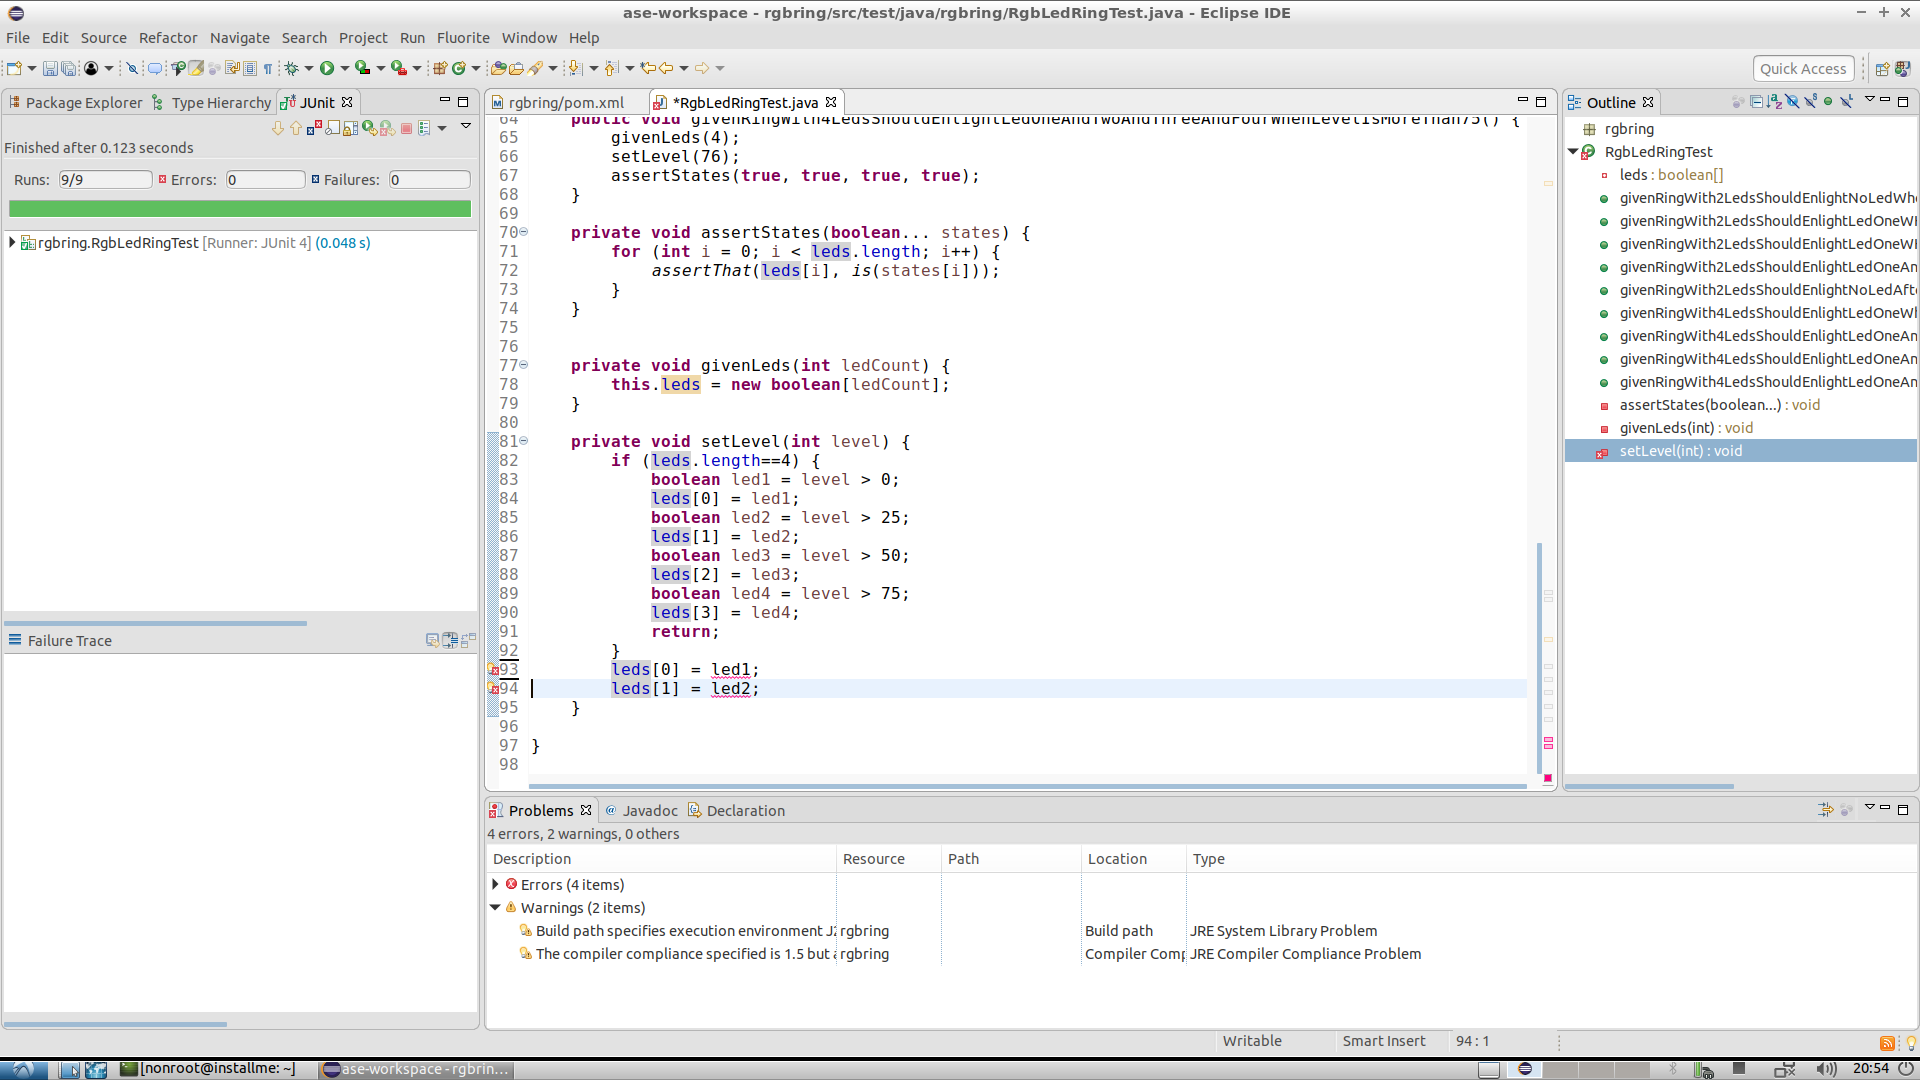
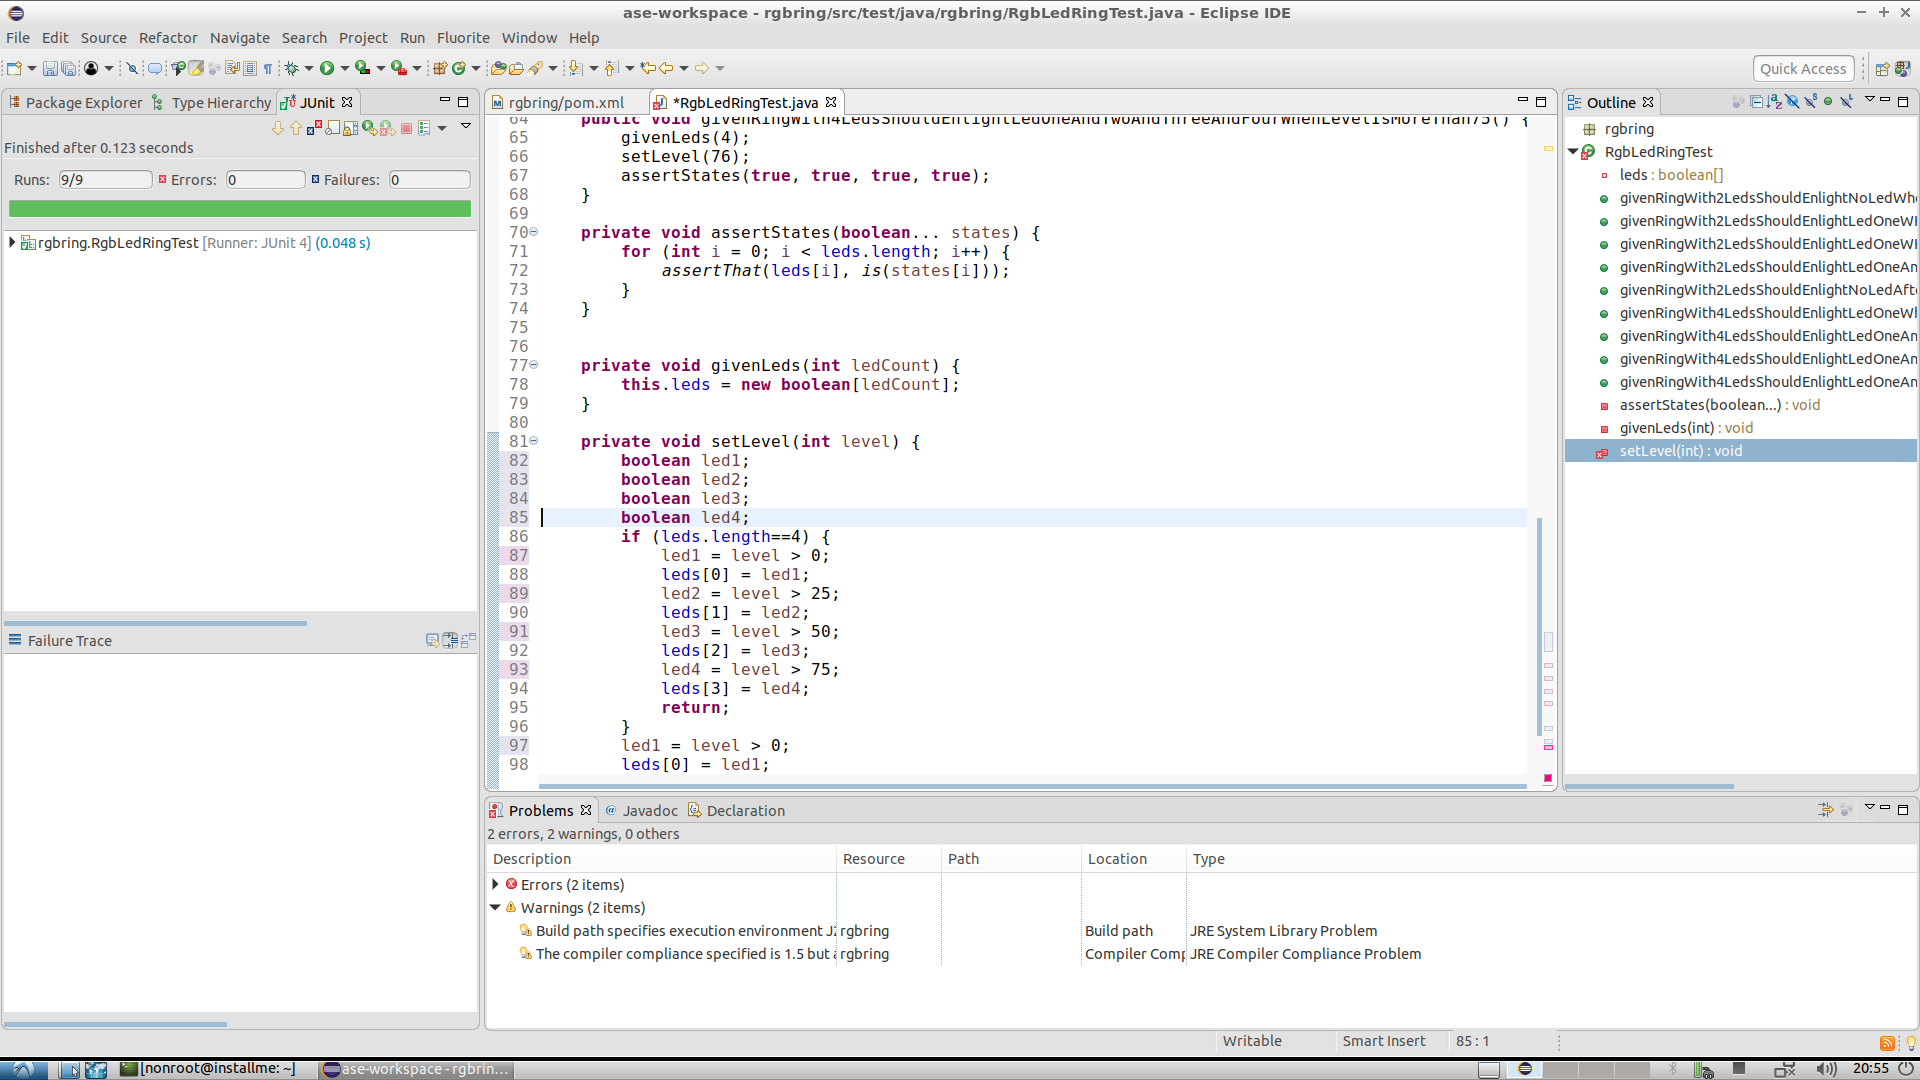
autocommit on change

diff --git a/src/test/java/rgbring/RgbLedRingTest.java b/src/test/java/rgbring/RgbLedRingTest.java
@@ -79,18 +79,24 @@ public class RgbLedRingTest {
 	}
 
 	private void setLevel(int level) {
+		boolean led1;
+		boolean led2;
+		boolean led3;
+		boolean led4;
 		if (leds.length==4) {
-			boolean led1 = level > 0;
+			led1 = level > 0;
 			leds[0] = led1;
-			boolean led2 = level > 25;
+			led2 = level > 25;
 			leds[1] = led2;
-			boolean led3 = level > 50;
+			led3 = level > 50;
 			leds[2] = led3;
-			boolean led4 = level > 75;
+			led4 = level > 75;
 			leds[3] = led4;
 			return;
 		}
+		led1 = level > 0;
 		leds[0] = led1;
+		led2 = level > 50;
 		leds[1] = led2;
 	}
 
